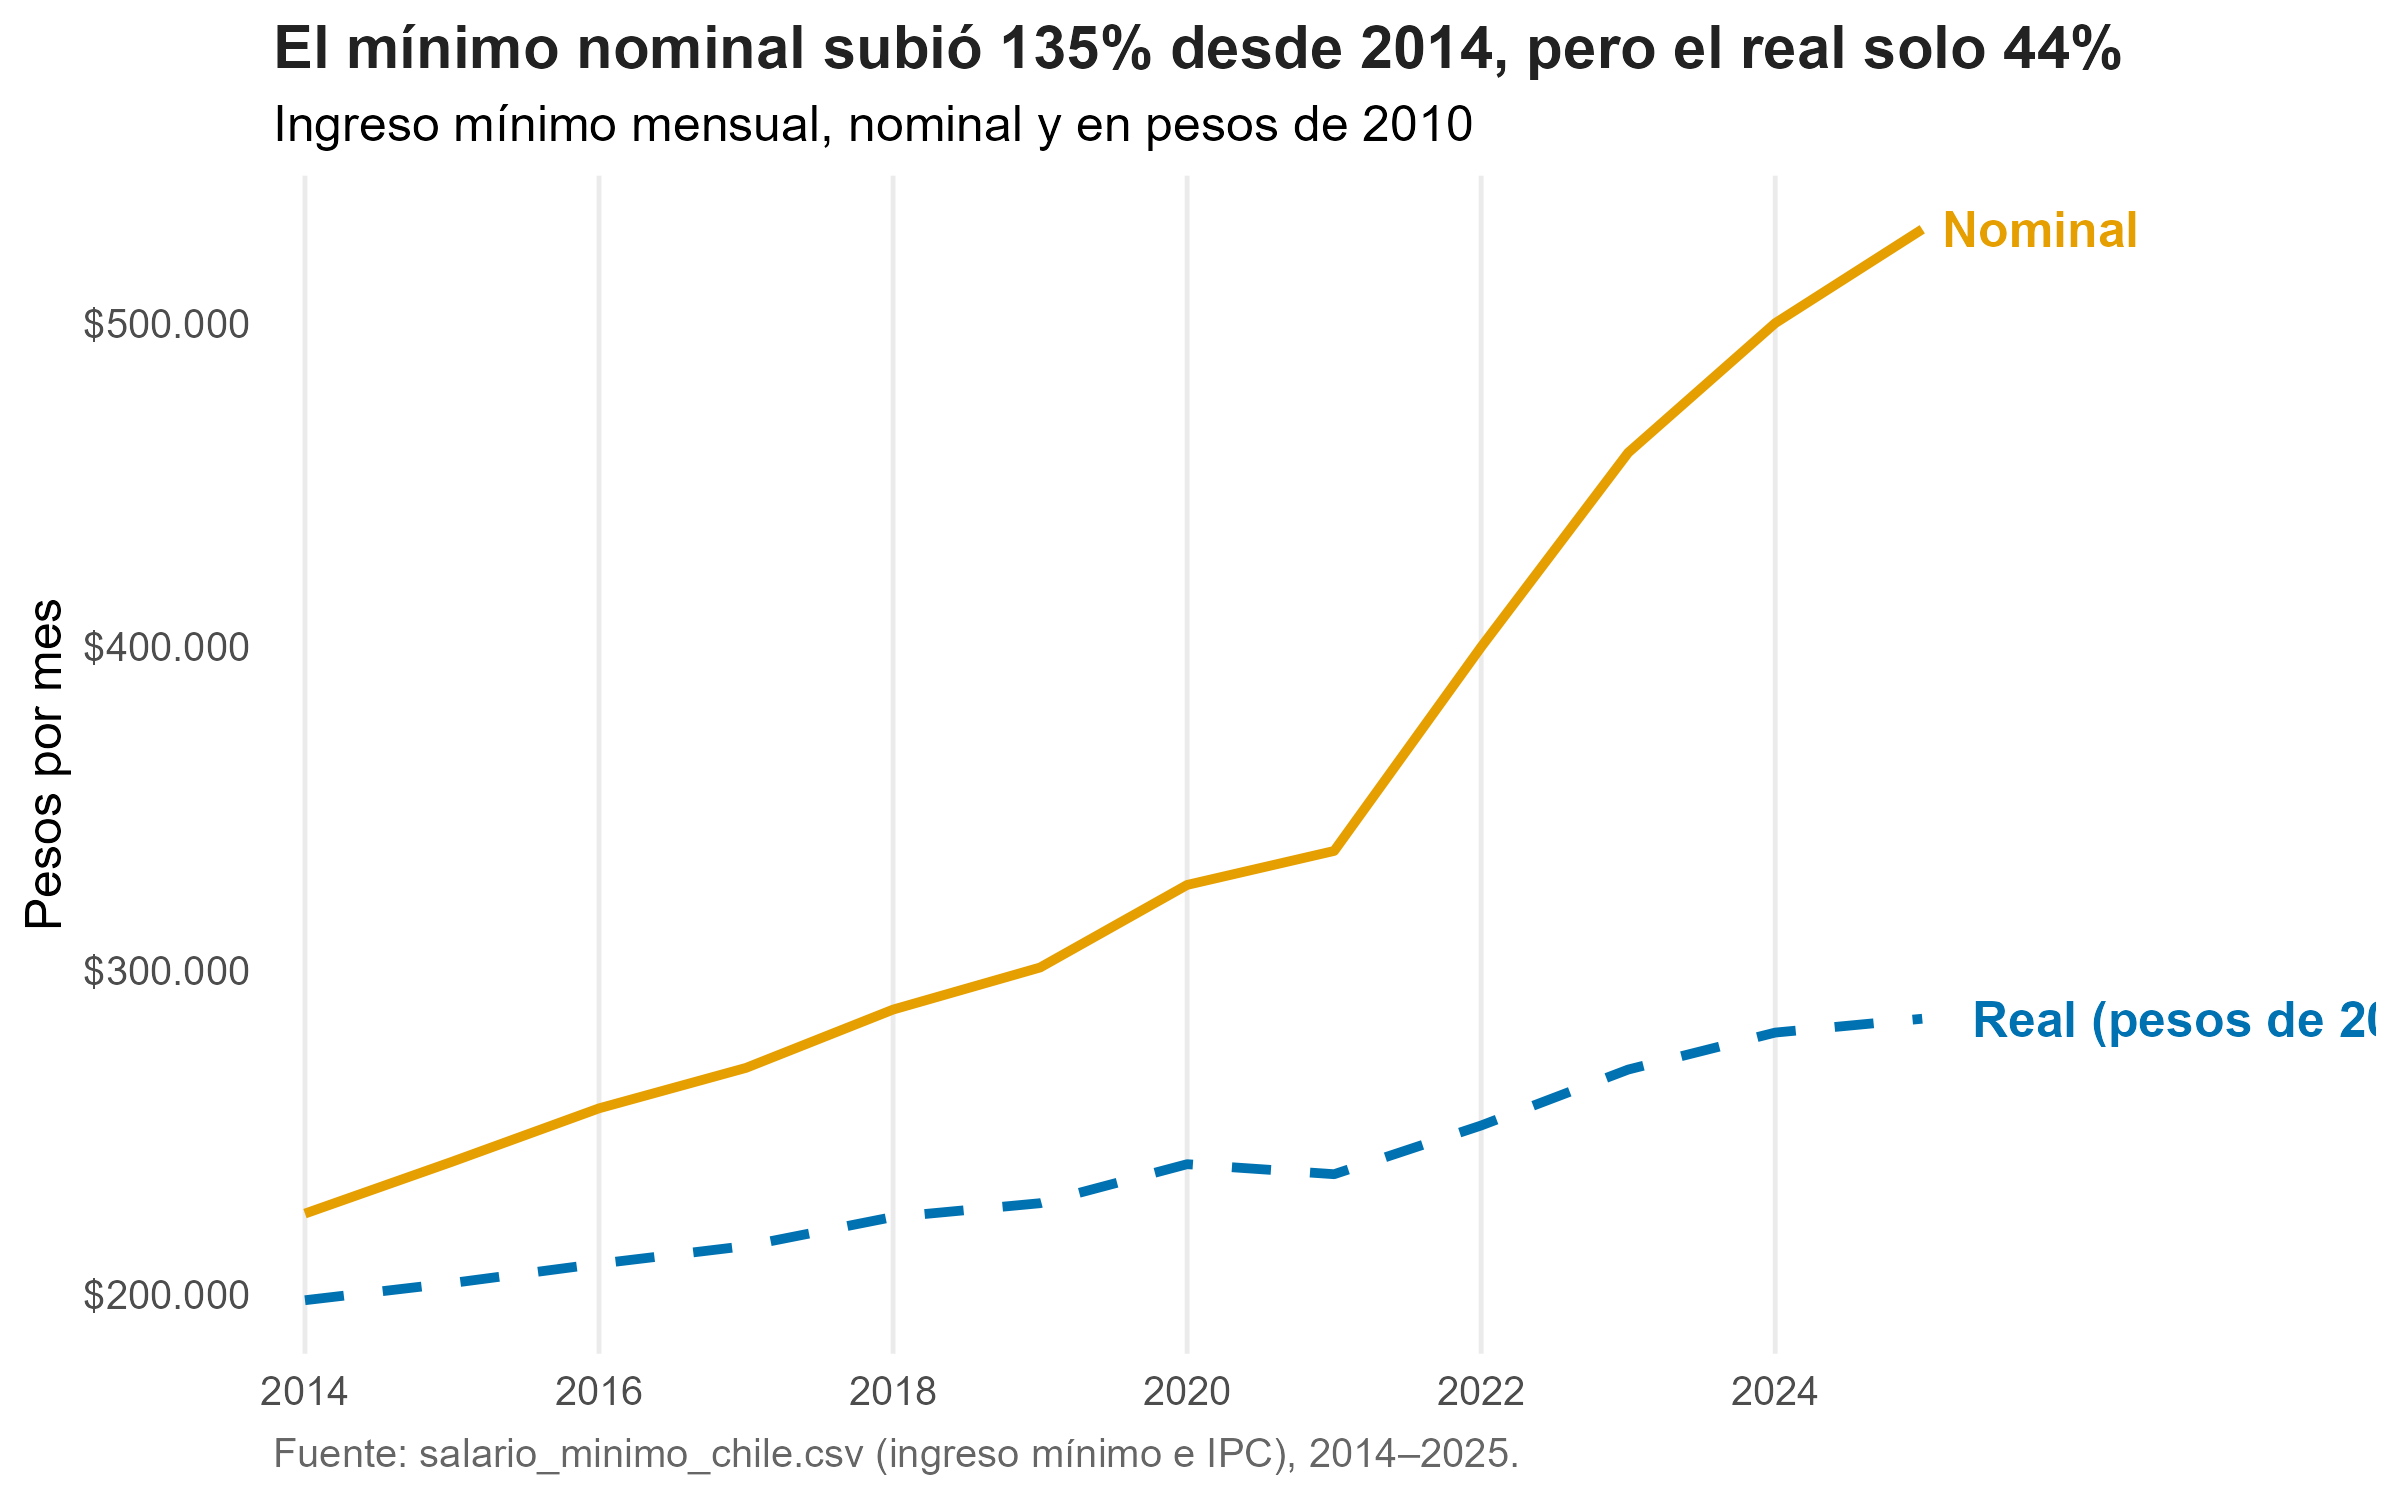
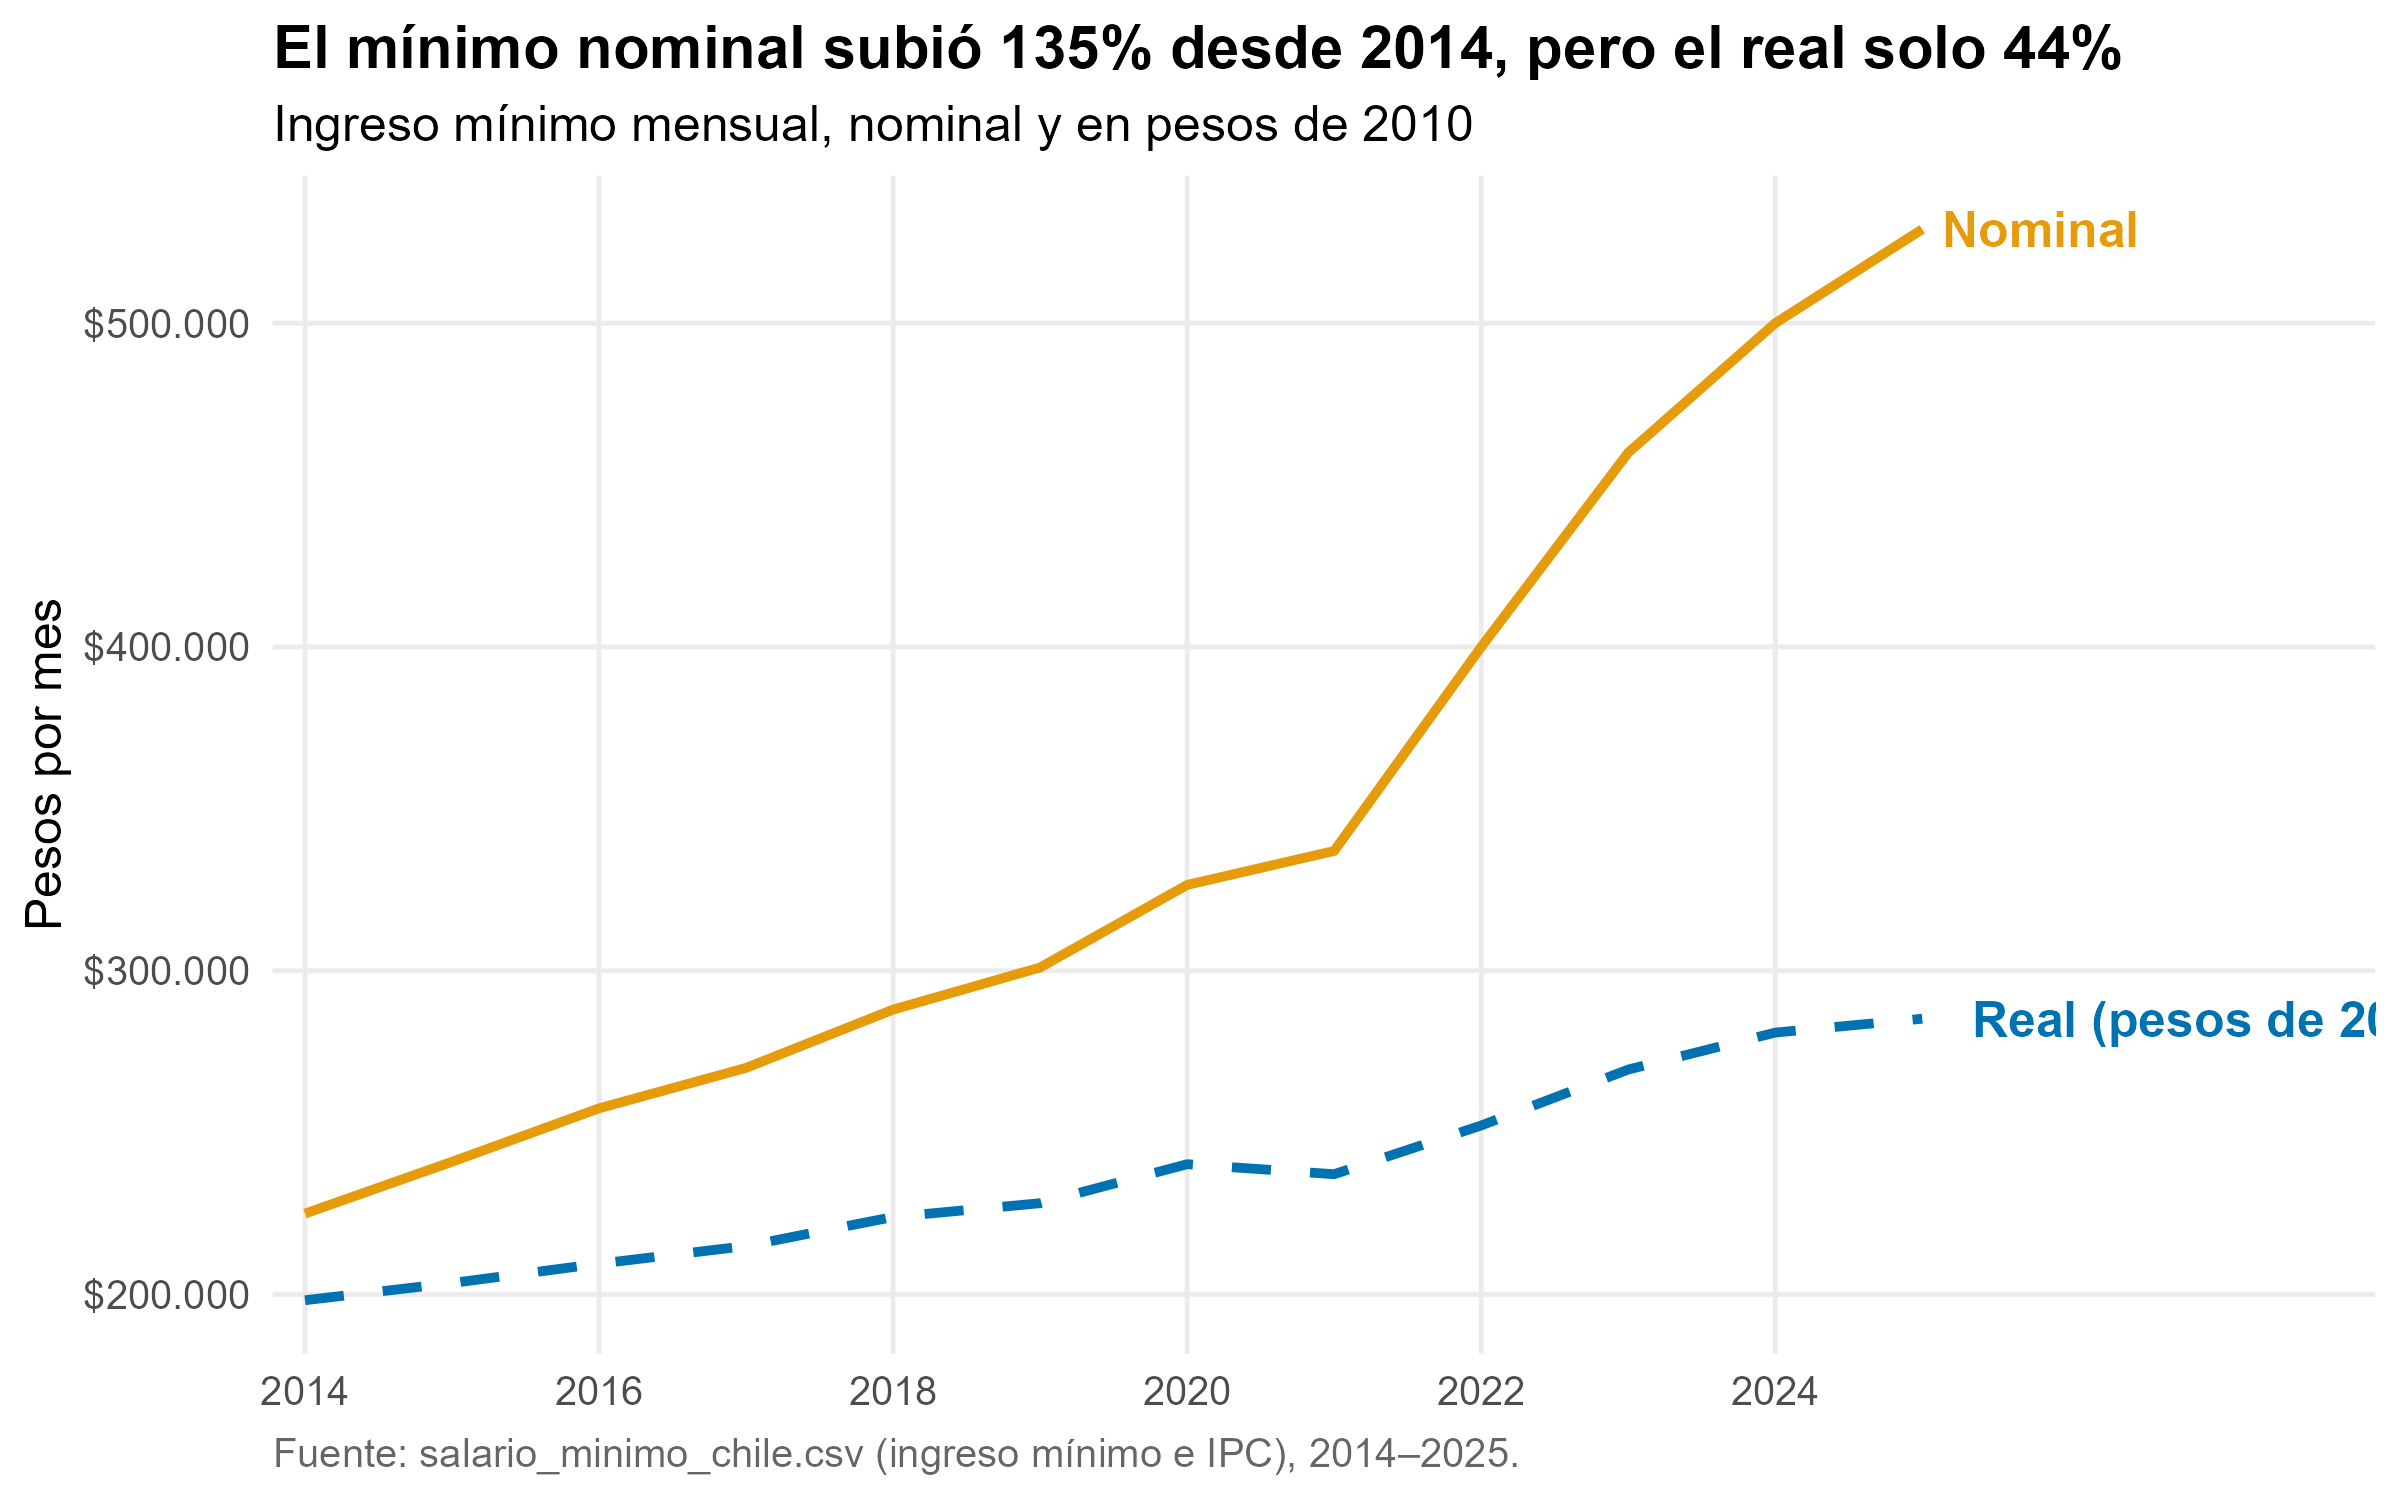
Ultimos ajustes
Arreglar graficos, agregar declaracion de uso de IA

Changed region(s): [[0.125, 0.0, 0.875, 0.0613]]

diff --git a/scripts/README.md b/scripts/README.md
@@ -14,3 +14,12 @@ Correr cada script completo (Source o Ctrl + Enter):
 scripts/t4_parte1.R
 scripts/t4_parte2.R
 Las figuras se guardan en output/figuras/.
+
+# Declaración de autoría y uso de IA
+- Herramienta utilizada: Claude 
+- Para qué la usé: obtener un borrador inicial de los scripts a partir del enunciado 
+y de los laboratorios, entender y corregir errores de R, revisar mis scripts contra 
+la rúbrica y armar la estructura del README.
+- Qué hice yo: ejecuté el código con mis datos, comprobé que cada título y comentario 
+coincidiera con mis resultados, completé las cifras de las respuestas, corregí detalles de los gráficos, ordené el repositorio y los commits, y [escribí la reflexión con mis palabras / revisé y reescribí la reflexión].
+- Verificación: confirmo que entiendo y puedo explicar todo lo que entrego.
